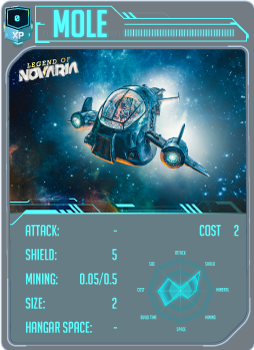
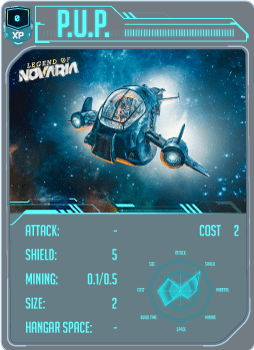
hook updates

diff --git a/src/hooks/useNovaria.ts b/src/hooks/useNovaria.ts
@@ -315,26 +315,26 @@ export const useGetMiningCapacity = (fleet: string) => {
 }
 
 // returns list of battle IDs at a location
-export const useGetBattlesAtLocation = (x: any, y: any, showResolved: boolean) => {
+export const useGetBattlesAtLocation = (x: any, y: any, resolveTime: number) => {
   const { fastRefresh } = useRefresh()
   const [battlesAtLocation, setBattlesAtLocation] = useState([])
 
   useEffect(() => {
     async function fetch() {
       if (x !== null) {
-        const data = await fleetContract.methods.getBattlesAtLocation(x, y, showResolved).call()
+        const data = await fleetContract.methods.getBattlesAtLocation(x, y, resolveTime).call()
         setBattlesAtLocation(data)
       }
     }
     fetch()
-  }, [fastRefresh, x, y, showResolved])
+  }, [fastRefresh, x, y, resolveTime])
   return battlesAtLocation
 }
 
 // returns battle info
 export const useGetBattle = (Id: number) => {
   const { fastRefresh } = useRefresh()
-  const [battle, setBattle] = useState({ attackTeam: [], defendTeam: [], deadline: 0, coordX: 0, coordY: 0, resolved: false, attackers: [], defenders: []})
+  const [battle, setBattle] = useState({ attackTeam: [], defendTeam: [], deadline: 0, coordX: 0, coordY: 0, resolvedTime: 0, attackers: [], defenders: []})
 
   useEffect(() => {
     async function fetch() {
@@ -345,7 +345,7 @@ export const useGetBattle = (Id: number) => {
         deadline: data[1],
         coordX: data[2],
         coordY: data[3],
-        resolved: data[0],
+        resolvedTime: data[0],
         attackers: data[4][0],
         defenders: data[5][0],
       })
@@ -403,7 +403,7 @@ export const useGetAttackPower = (fleet) => {
 
 export const useGetPlayer = (player) => {
   const { fastRefresh } = useRefresh()
-  const [Player, setPlayer] = useState({ name: '', experience: 0,  battleId: null, mineral: 0, battleStatus: 0 })
+  const [Player, setPlayer] = useState({ name: '', address: '', experience: 0,  battleId: null, mineral: 0, battleStatus: 0 })
 
   useEffect(() => {
     async function fetch() {
@@ -412,10 +412,11 @@ export const useGetPlayer = (player) => {
         const data = await fleetContract.methods.players(playerId).call()
         setPlayer({
           name: data[0],
-          experience: data[1], 
-          battleId: data[2], 
-          mineral: data[3], 
-          battleStatus: data[4], 
+          address: data[1],
+          experience: data[2], 
+          battleId: data[4], 
+          mineral: data[5], 
+          battleStatus: data[6], 
         })
       }
     }
@@ -620,17 +621,17 @@ export const useGetFleetLocation = (fleet) => {
   return fleetLocation
 }
 
-export const useGetExploreCost = (x, y) => {
+export const useGetExploreCost = (x, y, account) => {
   const { fastRefresh } = useRefresh()
   const [ExploreCost, setExploreCost] = useState(0)
 
   useEffect(() => {
     async function fetch() {
-      const data = await mapContract.methods.getExploreCost(x, y).call()
+      const data = await mapContract.methods.getExploreCost(x, y, account).call()
       setExploreCost(data)
     }
     fetch()
-  }, [fastRefresh, x, y])
+  }, [fastRefresh, x, y, account])
   return ExploreCost
 }
 
@@ -742,7 +743,7 @@ export const useGetCurrentTravelCooldown = (fleet: string) => {
 
   useEffect(() => {
     async function fetch() {
-      const data = await mapContract.methods.travelCooldown(fleet).call()
+      const data = await mapContract.methods.fleetTravelCooldown(fleet).call()
       setCurrentCooldown(data)
     }
     fetch()

diff --git a/src/views/Novaria/Location/YourFleetStats/YourFleetStats.tsx b/src/views/Novaria/Location/YourFleetStats/YourFleetStats.tsx
@@ -1,6 +1,6 @@
 import React, { useState } from 'react'
 import styled from 'styled-components'
-import { useRecall } from 'hooks/useNovaria'
+import { useGetBattle, useRecall } from 'hooks/useNovaria'
 import showCountdown from 'utils/countdownTimer'
 import { getWeb3 } from 'utils/web3'
 
@@ -30,6 +30,8 @@ const Button = styled.button`
 `
 
 const YourFleetStats = ({
+  account,
+  playerBattleInfo,
   fleetSize,
   maxFleetSize,
   fleetPower,
@@ -45,6 +47,9 @@ const YourFleetStats = ({
 
   const [pending, setPendingTx] = useState(false)
 
+  const battleID = Number(playerBattleInfo.battleId)
+  const resolvedTime = useGetBattle(battleID).resolvedTime
+  const battleCooldown = showCountdown(new Date(resolvedTime*1000))
   const miningCooldown = showCountdown(currentMiningCooldown)
   const travelCooldown = showCountdown(currentTravelCooldown)
   const fleetCoords = [Number(fleetLocation.X), Number(fleetLocation.Y)]
@@ -103,6 +108,10 @@ const YourFleetStats = ({
       <Stat>
         <div>TRAVEL</div>
         <div>{travelCooldown}</div>
+      </Stat>
+      <Stat>
+        <div>BATTLE</div>
+        <div>{battleCooldown}</div>
       </Stat>
 
       {canRecall && <Button onClick={sendRecallTx}>{!pending ? 'RECALL TO HAVEN' : 'pending'}</Button>}

diff --git a/src/views/Novaria/Shipyard/Shipyard.tsx b/src/views/Novaria/Shipyard/Shipyard.tsx
@@ -261,7 +261,7 @@ const Shipyard = () => {
   const currentLocation = Number(fleetLocation.X) === Number(shipyardX) && Number(fleetLocation.Y) === Number(shipyardY)
 
   const [handleViperClick] = useModal(<ShipCardModal shipclass='Viper' />)
-  const [handleMoleClick] = useModal(<ShipCardModal shipclass='Mole' />)
+  const [handleMoleClick] = useModal(<ShipCardModal shipclass='P.U.P.' />)
   const [handleFireflyClick] = useModal(<ShipCardModal shipclass='Firefly' />)
   const [handleGorianClick] = useModal(<ShipCardModal shipclass='Gorian' />)
   const [handleUnknownClick] = useModal(<ShipCardModal shipclass='Unknown' />)
@@ -515,7 +515,9 @@ const Shipyard = () => {
           <RightCol>
             <FleetMenu>
               <Header style={{ color: 'white' }}>MY FLEET</Header>
-              <YourFleetStats
+              <YourFleetStats 
+                account={account}
+                playerBattleInfo={playerBattleInfo}
                 fleetSize={fleetSize}
                 maxFleetSize={maxFleetSize}
                 fleetPower={fleetPower}

diff --git a/src/views/Novaria/Location/Location.tsx b/src/views/Novaria/Location/Location.tsx
@@ -221,7 +221,7 @@ const Location: React.FC = () => {
 
   // Main place info functions
   const placeInfo = useGetPlaceInfo(placeX, placeY)
-  const battlesAtLocation = useGetBattlesAtLocation(placeX, placeY, false)
+  const battlesAtLocation = useGetBattlesAtLocation(placeX, placeY, 0)
   const fleetsAtLocation = useGetFleetsAtLocation(placeX, placeY)
 
   const fleetSize = useGetFleetSize(account)
@@ -339,7 +339,9 @@ const Location: React.FC = () => {
               <FleetMenu>
                 <YourFleetCard>
                   <Header>MY FLEET</Header>
-                  <YourFleetStats
+                  <YourFleetStats 
+                    playerBattleInfo={playerBattleInfo}
+                    account={account}
                     fleetSize={fleetSize}
                     maxFleetSize={maxFleetSize}
                     fleetPower={fleetPower}

diff --git a/src/views/Novaria/Location/LocationCard/LocationCard.tsx b/src/views/Novaria/Location/LocationCard/LocationCard.tsx
@@ -239,7 +239,7 @@ const LocationCard = ({
   const { account } = useWallet()
   const travelCost = useGetFleetTravelCost(account, placeX, placeY) / 10 ** 18
   const travelCooldown = useGetTravelCooldown(account, placeX, placeY) / 60 
-  const exploreCost = useGetExploreCost(placeX, placeY)
+  const exploreCost = useGetExploreCost(placeX, placeY, account)
   const distance = Math.floor(Math.sqrt(Math.abs(placeX - fleetLocation.X)**2 + Math.abs(placeY - fleetLocation.Y)**2)) 
   const atMaxMineral = Number(playerMaxMineral) <= Number(playerMineral)
   const discovererName = useGetNameByAddress(discoverer)

diff --git a/src/views/Novaria/Shipyard/ShipCardModal.tsx b/src/views/Novaria/Shipyard/ShipCardModal.tsx
@@ -31,7 +31,7 @@ const ShipCardModal: React.FC<PlayerModalProps> = ({ shipclass, onDismiss }) => 
   return (
     <Modal title={shipclass} onDismiss={onDismiss} >
       {shipclass === 'Viper' && <Img src={viperCard} alt='viper' />}
-      {shipclass === 'Mole' && <Img src={moleCard} alt='viper' />}
+      {shipclass === 'P.U.P.' && <Img src={moleCard} alt='viper' />}
       {shipclass === 'Firefly' && <Img src={fireflyCard} alt='viper' />}
       {shipclass === 'Gorian' && <Img src={gorianCard} alt='viper' />}
       {shipclass === 'Unknown' && <Img src={unknownCard} alt='viper' />}        

diff --git a/src/views/Novaria/Location/OpenBattlesTable/BattleModal/BattleModal.tsx b/src/views/Novaria/Location/OpenBattlesTable/BattleModal/BattleModal.tsx
@@ -37,7 +37,7 @@ const BattleModal: React.FC<BattleModalProps> = ({battle, status, currentLocatio
   const startTime = new Date(battleInfo.deadline * 1000).toLocaleString()
   const battleReady = new Date() >= new Date(battleInfo.deadline * 1000)
   const inBattle = status 
-  const resolved = battleInfo.resolved 
+  const resolved = Number(battleInfo.resolvedTime) > 0 
 
 
   const GetPlayerName = (address) => {

diff --git a/src/views/Novaria/Overview/Overview.tsx b/src/views/Novaria/Overview/Overview.tsx
@@ -81,7 +81,7 @@ const Overview: React.FC = () => {
   const playerBattleStatus = useGetPlayerBattleStatus(account)
 
   const playerCount = useGetPlayerCount()
-  const recentLocationBattles = useGetBattlesAtLocation(fleetLocation.X, fleetLocation.Y, true)
+  const recentLocationBattles = useGetBattlesAtLocation(fleetLocation.X, fleetLocation.Y, 1)
 
   return (
     <Page>
